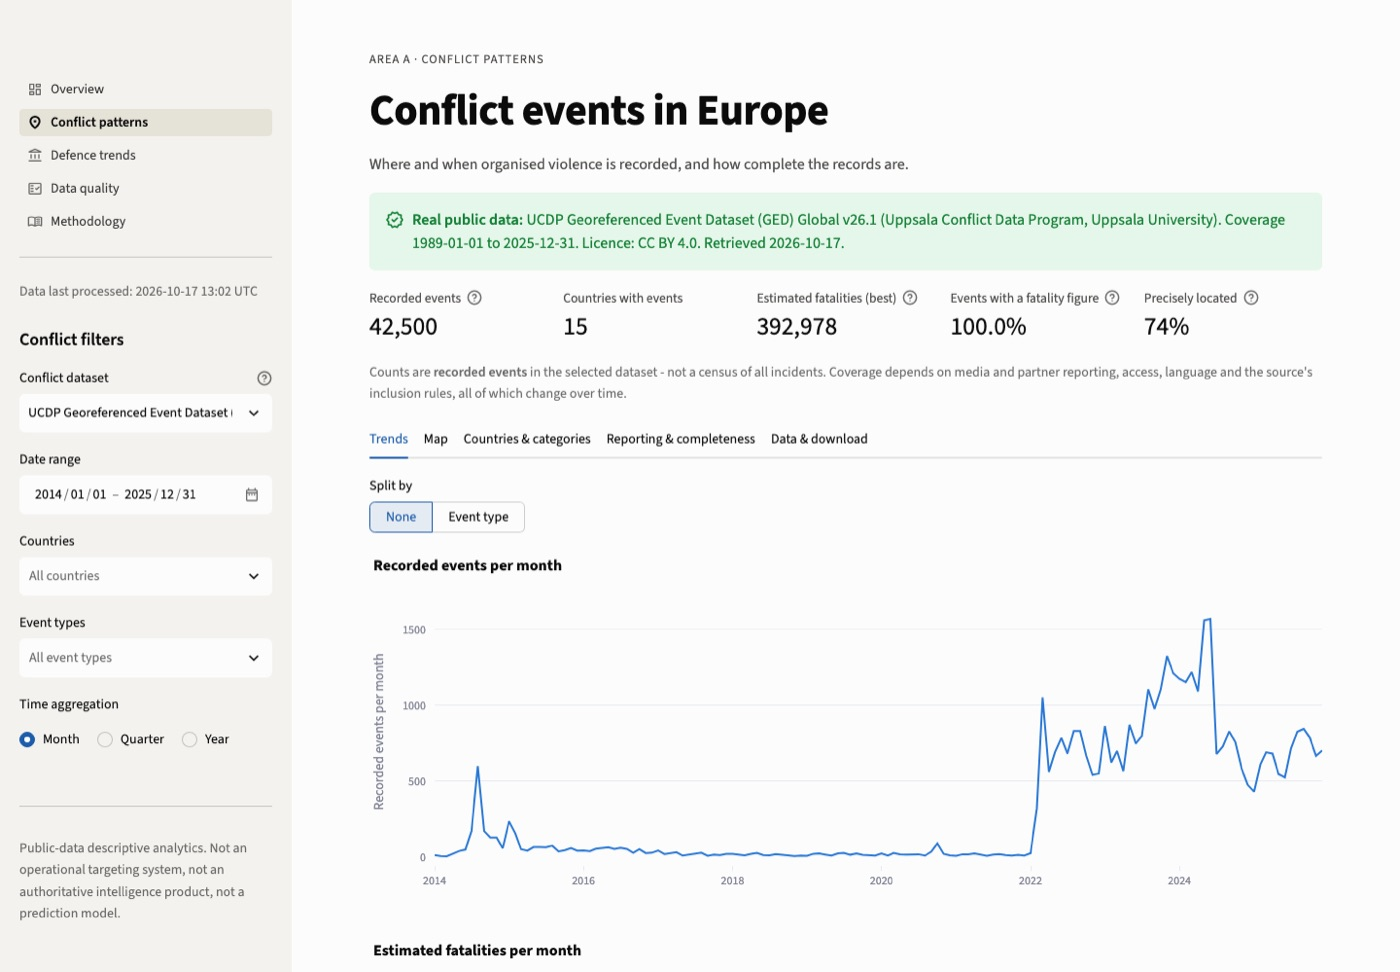
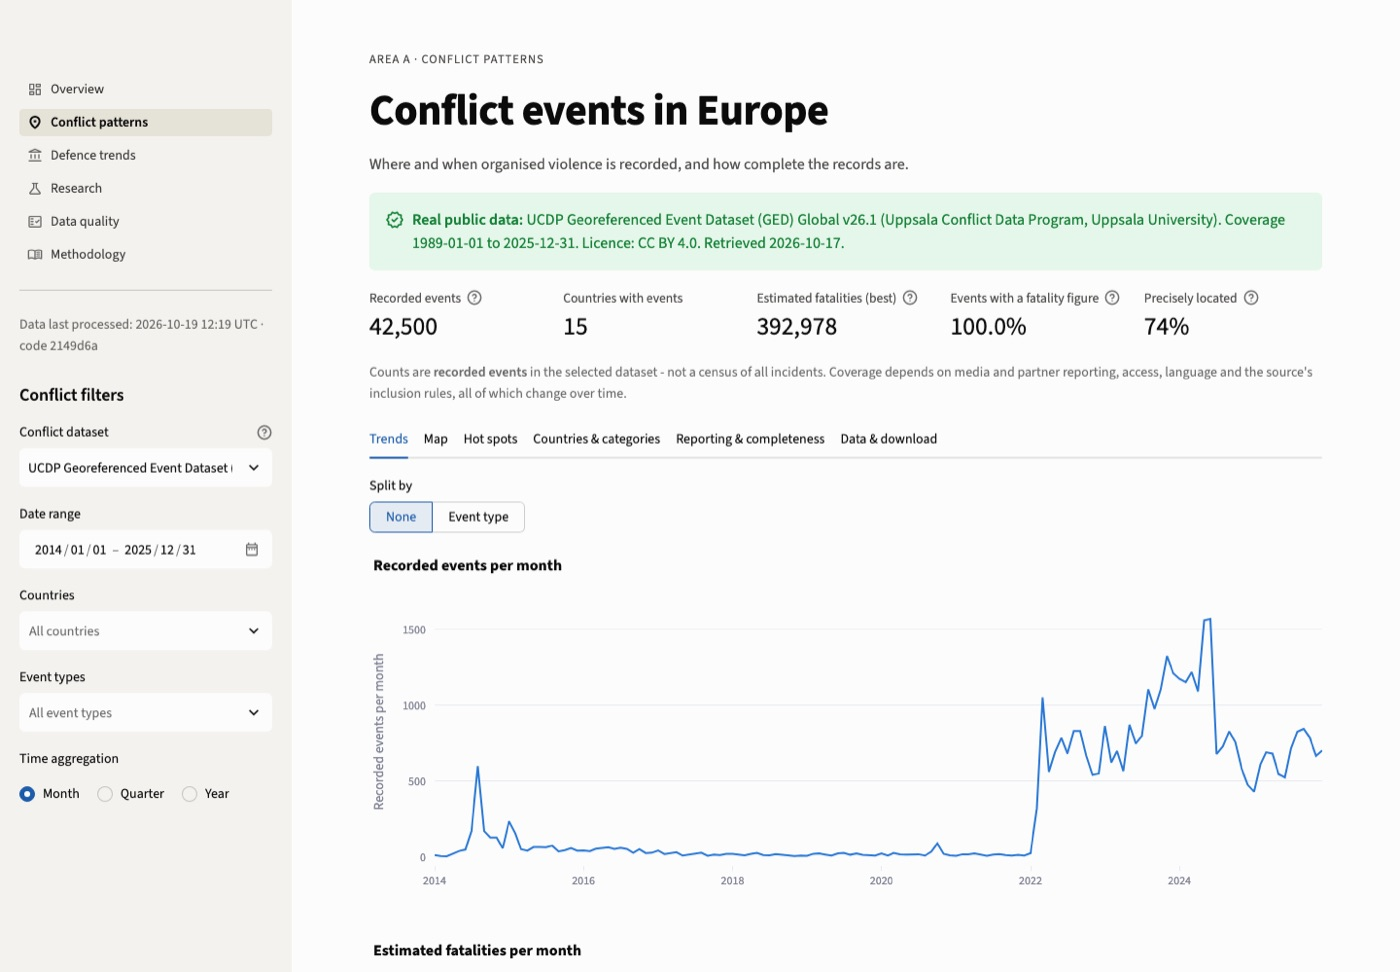
Replace README screenshots; order and label datasets on the Overview
The README overview screenshot had been taken at /overview, which is not a
route (the default page lives at /), so it showed Streamlit's "Page not
found" dialog. All screenshots are retaken from the correct URLs and the
current app, and the Research page is added.

The Overview now lists final sources first, then provisional, then
synthetic, and tags UCDP Candidate as PROVISIONAL instead of REAL DATA.

diff --git a/src/ui/common.py b/src/ui/common.py
@@ -138,7 +138,8 @@ def milex_indicators(version: str, source: str) -> list[str]:
 
 
 def source_label(row: pd.Series) -> str:
-    tag = "SYNTHETIC demo" if row["data_status"] == "synthetic" else "real data"
+    tag = ("provisional" if row["source"] == "ucdp_candidate"
+           else "SYNTHETIC demo" if row["data_status"] == "synthetic" else "real data")  # fmt: skip
     return f"{row['name']}  ·  {tag}"
 
 
@@ -146,10 +147,7 @@ def pick_source(domain: str, key: str, label: str, container=st.sidebar) -> pd.S
     """Source selector that never mixes sources; defaults to real data when present."""
     reg = registry(db_version())
     # Default = final real data; provisional and synthetic sources come later in the list.
-    priority = {"ucdp_ged": 0, "acled": 1, "sipri_milex": 0, "ucdp_candidate": 5}
-    reg = reg[reg["domain"] == domain]
-    reg = reg.assign(_p=[priority.get(k, 9 if s == "synthetic" else 3) for k, s in zip(reg["source"], reg["data_status"])])
-    reg = reg.sort_values("_p", kind="stable").drop(columns="_p")
+    reg = ordered(reg[reg["domain"] == domain])
     options = reg["source"].tolist()
     labels = dict(zip(reg["source"], reg.apply(source_label, axis=1)))
     choice = container.selectbox(label, options, format_func=labels.get, key=key,
@@ -214,13 +212,25 @@ CSS = """
              padding: 0.1rem 0.45rem; border-radius: 4px; margin-right: 0.3rem;}
   .ecsi-real {background: #e7f3e7; color: #006300;}
   .ecsi-syn {background: #fbe9e9; color: #a32727;}
+  .ecsi-prov {background: #fdf3dc; color: #8a5a00;}
   [data-testid="stMetricValue"] {font-size: 1.6rem;}
   [data-testid="stMetricLabel"] p {font-size: 0.85rem; color: #52514e;}
 </style>
 """
 
 
-def tag(status: str) -> str:
+SOURCE_PRIORITY = {"ucdp_ged": 0, "sipri_milex": 0, "acled": 1, "ucdp_candidate": 5}
+
+
+def ordered(reg):
+    """Final real sources first, then provisional, then synthetic (stable within a group)."""
+    keys = [SOURCE_PRIORITY.get(k, 9 if st_ == "synthetic" else 3) for k, st_ in zip(reg["source"], reg["data_status"])]
+    return reg.assign(_p=keys).sort_values("_p", kind="stable").drop(columns="_p")
+
+
+def tag(status: str, source: str = "") -> str:
+    if source == "ucdp_candidate":
+        return '<span class="ecsi-tag ecsi-prov">◷ PROVISIONAL</span>'
     if status == "synthetic":
         return '<span class="ecsi-tag ecsi-syn">▲ SYNTHETIC</span>'
     return '<span class="ecsi-tag ecsi-real">● REAL DATA</span>'

diff --git a/src/ui/page_overview.py b/src/ui/page_overview.py
@@ -19,7 +19,7 @@ def _source_card(col, row: pd.Series, area: str) -> None:
         f"""<div class="ecsi-card">
         <div class="ecsi-muted">{area}</div>
         <h4>{row['name']}</h4>
-        {U.tag(row['data_status'])}
+        {U.tag(row['data_status'], row['source'])}
         <p class="ecsi-muted" style="margin-top:.5rem">{row['publisher']}<br>
         Coverage: {span} · {int(row['rows_out']):,} rows<br>
         Licence: {row['licence']}<br>
@@ -52,7 +52,7 @@ responds to conflict.
     )
 
     reg = U.registry(v)
-    reg = reg[reg["domain"].isin(["conflict", "defence"])]
+    reg = U.ordered(reg[reg["domain"].isin(["conflict", "defence"])])
     st.markdown("#### Datasets loaded")
     rows = list(reg.iterrows())
     for i in range(0, len(rows), 2):  # two cards per row stay readable on narrow screens

diff --git a/README.md b/README.md
@@ -32,6 +32,8 @@ documented transformation, and a stated denominator.**
 | Conflict patterns (UCDP GED, 2014–2025) | Defence trends (SIPRI, constant 2024 US$) |
 |---|---|
 | ![Conflict](docs/img/dashboard_conflict.jpg) | ![Defence](docs/img/dashboard_defence.jpg) |
+| **Research: proximity to Russia** | |
+| ![Research](docs/img/dashboard_research.jpg) | |
 
 ---
 
